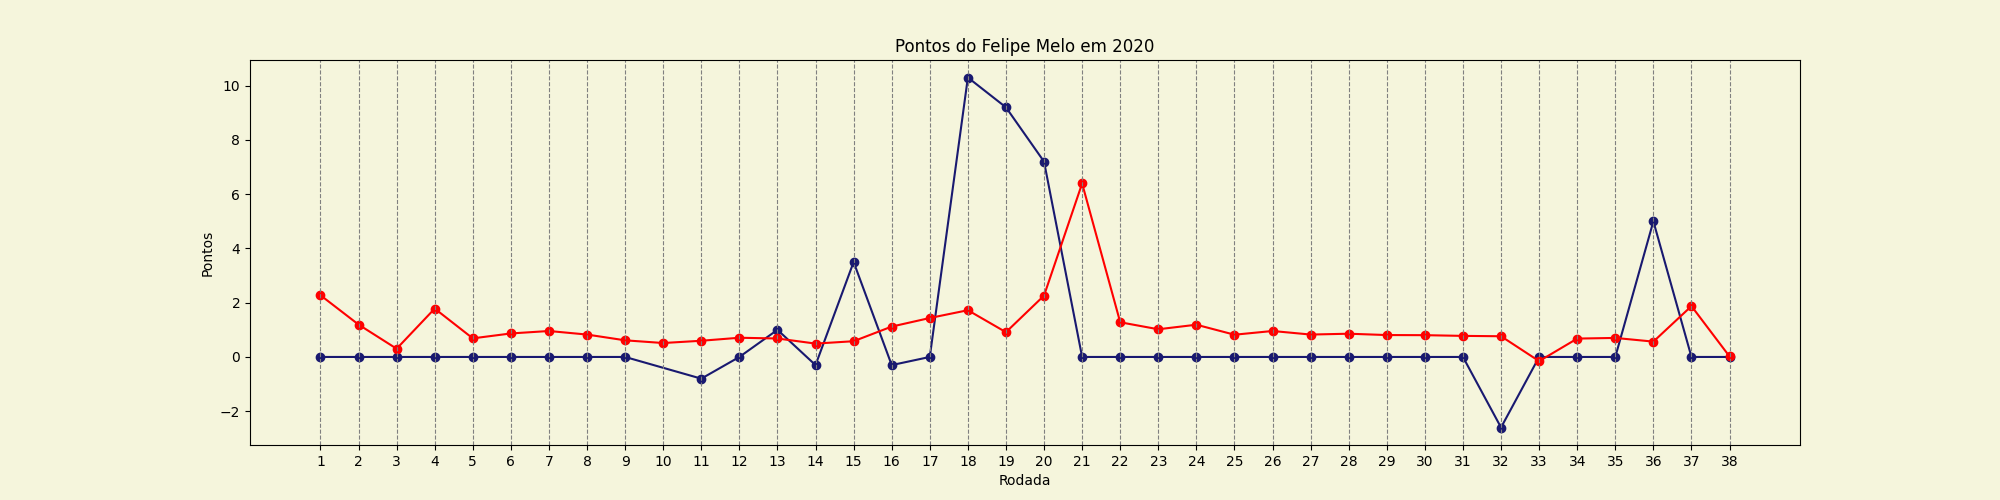
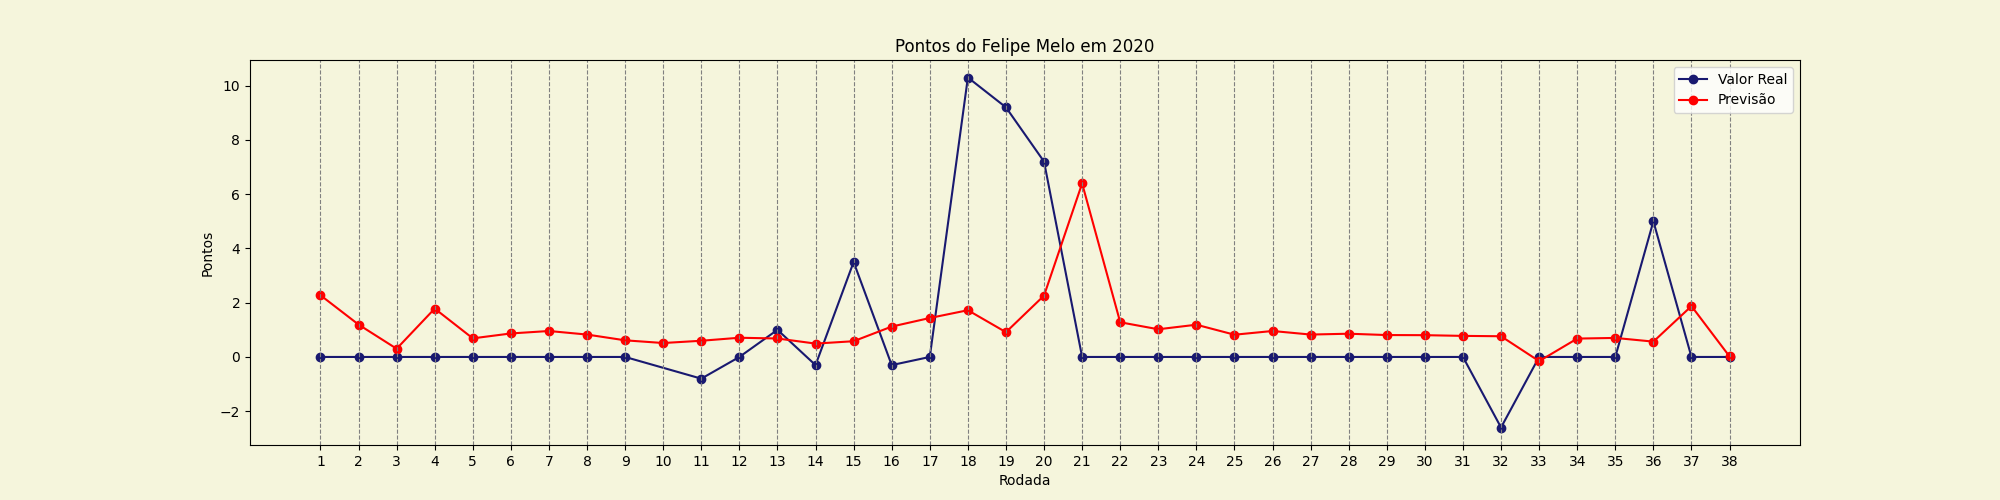
add legend on chart

Changed region(s): [[0.837, 0.12, 0.899, 0.24]]

diff --git a/server/TeamAssignment/utils/visualization.py b/server/TeamAssignment/utils/visualization.py
@@ -12,9 +12,17 @@ def plot_by_id(id: int, year: int, year_dir: str, predictions: List[float] = [])
     fig, ax = plt.subplots(figsize=(20, 5))
     fig.set_facecolor("beige")
     ax.set_facecolor("beige")
-    ax.plot(timeseries.index, timeseries.pontos, marker="o", color="midnightblue")
+    ax.plot(
+        timeseries.index, timeseries.pontos, marker="o", color="midnightblue", label="Valor Real"
+    )
     if len(predictions) > 0:
-        ax.plot([i for i in range(1, len(predictions) + 1)], predictions, marker="o", color="red")
+        ax.plot(
+            [i for i in range(1, len(predictions) + 1)],
+            predictions,
+            marker="o",
+            color="red",
+            label="Previsão",
+        )
 
     x_ticks = np.arange(1, 39, 1)
     ax.set_xticks(x_ticks)
@@ -23,6 +31,7 @@ def plot_by_id(id: int, year: int, year_dir: str, predictions: List[float] = [])
     ax.set_xlabel("Rodada")
     ax.set_ylabel("Pontos")
     ax.set_title(f"Pontos do {player_name} em {year}")
+    ax.legend()
 
     ROOT_DIR = Path(__file__).resolve().parent.parent
     IMAGE_DIR = os.path.join(ROOT_DIR, "images")
